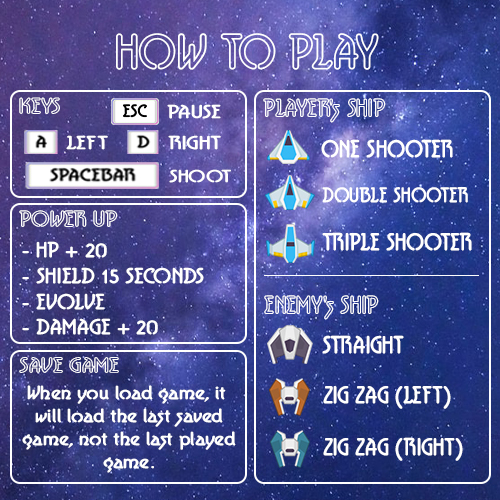
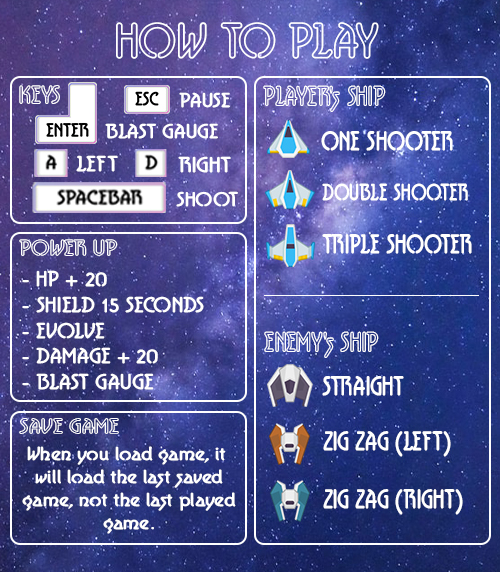
V42 - blast gauge sudah (help & kena musuh)

diff --git a/src/Proyek/formMenuInGame.java b/src/Proyek/formMenuInGame.java
@@ -55,21 +55,28 @@ public class formMenuInGame extends javax.swing.JFrame {
 
         jDialog1.setAlwaysOnTop(true);
         jDialog1.setCursor(new java.awt.Cursor(java.awt.Cursor.DEFAULT_CURSOR));
-        jDialog1.setMinimumSize(new java.awt.Dimension(505, 525));
+        jDialog1.setMinimumSize(new java.awt.Dimension(505, 600));
         jDialog1.setModal(true);
+        jDialog1.setPreferredSize(new java.awt.Dimension(505, 600));
         jDialog1.setResizable(false);
 
         jLabel2.setIcon(new javax.swing.ImageIcon(getClass().getResource("/Proyek/help.jpg"))); // NOI18N
+        jLabel2.setMaximumSize(new java.awt.Dimension(505, 600));
+        jLabel2.setMinimumSize(new java.awt.Dimension(505, 600));
+        jLabel2.setName(""); // NOI18N
+        jLabel2.setPreferredSize(new java.awt.Dimension(505, 600));
 
         javax.swing.GroupLayout jDialog1Layout = new javax.swing.GroupLayout(jDialog1.getContentPane());
         jDialog1.getContentPane().setLayout(jDialog1Layout);
         jDialog1Layout.setHorizontalGroup(
             jDialog1Layout.createParallelGroup(javax.swing.GroupLayout.Alignment.LEADING)
-            .addComponent(jLabel2, javax.swing.GroupLayout.DEFAULT_SIZE, 505, Short.MAX_VALUE)
+            .addComponent(jLabel2, javax.swing.GroupLayout.DEFAULT_SIZE, 509, Short.MAX_VALUE)
         );
         jDialog1Layout.setVerticalGroup(
             jDialog1Layout.createParallelGroup(javax.swing.GroupLayout.Alignment.LEADING)
-            .addComponent(jLabel2, javax.swing.GroupLayout.DEFAULT_SIZE, javax.swing.GroupLayout.DEFAULT_SIZE, Short.MAX_VALUE)
+            .addGroup(jDialog1Layout.createSequentialGroup()
+                .addComponent(jLabel2, javax.swing.GroupLayout.PREFERRED_SIZE, 572, javax.swing.GroupLayout.PREFERRED_SIZE)
+                .addGap(0, 0, Short.MAX_VALUE))
         );
 
         setDefaultCloseOperation(javax.swing.WindowConstants.EXIT_ON_CLOSE);

diff --git a/src/Proyek/LoginFrame.java b/src/Proyek/LoginFrame.java
@@ -62,21 +62,26 @@ public class LoginFrame extends javax.swing.JFrame {
 
         jDialog1.setAlwaysOnTop(true);
         jDialog1.setCursor(new java.awt.Cursor(java.awt.Cursor.DEFAULT_CURSOR));
-        jDialog1.setMinimumSize(new java.awt.Dimension(505, 525));
+        jDialog1.setMinimumSize(new java.awt.Dimension(505, 600));
         jDialog1.setModal(true);
         jDialog1.setResizable(false);
 
         jLabel1.setIcon(new javax.swing.ImageIcon(getClass().getResource("/Proyek/help.jpg"))); // NOI18N
+        jLabel1.setMaximumSize(new java.awt.Dimension(505, 600));
+        jLabel1.setMinimumSize(new java.awt.Dimension(505, 600));
+        jLabel1.setPreferredSize(new java.awt.Dimension(505, 600));
 
         javax.swing.GroupLayout jDialog1Layout = new javax.swing.GroupLayout(jDialog1.getContentPane());
         jDialog1.getContentPane().setLayout(jDialog1Layout);
         jDialog1Layout.setHorizontalGroup(
             jDialog1Layout.createParallelGroup(javax.swing.GroupLayout.Alignment.LEADING)
-            .addComponent(jLabel1, javax.swing.GroupLayout.DEFAULT_SIZE, 505, Short.MAX_VALUE)
+            .addComponent(jLabel1, javax.swing.GroupLayout.DEFAULT_SIZE, 508, Short.MAX_VALUE)
         );
         jDialog1Layout.setVerticalGroup(
             jDialog1Layout.createParallelGroup(javax.swing.GroupLayout.Alignment.LEADING)
-            .addComponent(jLabel1, javax.swing.GroupLayout.DEFAULT_SIZE, javax.swing.GroupLayout.DEFAULT_SIZE, Short.MAX_VALUE)
+            .addGroup(jDialog1Layout.createSequentialGroup()
+                .addComponent(jLabel1, javax.swing.GroupLayout.PREFERRED_SIZE, 572, javax.swing.GroupLayout.PREFERRED_SIZE)
+                .addGap(0, 0, Short.MAX_VALUE))
         );
 
         setDefaultCloseOperation(javax.swing.WindowConstants.EXIT_ON_CLOSE);

diff --git a/src/Proyek/game.java b/src/Proyek/game.java
@@ -5,6 +5,7 @@ import java.awt.Color;
 import java.awt.Font;
 import java.awt.Graphics;
 import java.awt.Graphics2D;
+import java.awt.Rectangle;
 import java.awt.image.BufferedImage;
 import java.io.File;
 import java.io.IOException;
@@ -32,8 +33,10 @@ public class game implements Serializable{
     protected int tmrStage;
     protected int musuh;
     protected int ctrSfxNextStage;
+    protected boolean blastActive;
     
     public game(String nama,int stage, int difficulty) {
+        this.blastActive = false;
         this.tmrStage = -1;
         this.musuh = 0;
         this.nama = nama;
@@ -243,6 +246,16 @@ public class game implements Serializable{
         hapus();
     }
     
+    public void blast(){
+        if(getPlayer().yBlast >= 0){
+            Rectangle b = new Rectangle(-15, getPlayer().yBlast, 545, 10);
+            for(pesawat p : this.listMusuh){
+                if(b.intersects(p.bounds())){
+                    p.hp = -1;
+                }
+            }
+        }
+    }
     
     public void hapus(){
         for (int i = 0; i < idxHapus.size(); i++) {
@@ -428,10 +441,13 @@ public class game implements Serializable{
                 }
                 this.listMusuh.remove(i);
                 this.score += 20;
-                getPlayer().ctrBlast += 10;
-                if(getPlayer().ctrBlast >= 100){
-                    getPlayer().ctrBlast = 100;
+                if(getPlayer().yBlast <= 0 || getPlayer().yBlast >= 550){
+                    getPlayer().ctrBlast += 10;
+                    if(getPlayer().ctrBlast >= 100){
+                        getPlayer().ctrBlast = 100;
+                    }  
                 }
+                
             }
         }
     }

diff --git a/src/Proyek/panelGame.java b/src/Proyek/panelGame.java
@@ -27,10 +27,8 @@ public class panelGame extends javax.swing.JPanel {
     float ctrWaktu;
     int ctrTembak;
     int ctrLoopSfxLose;
-    boolean blastActive;
     
     public panelGame() {
-        blastActive = false;
         initComponents();
         this.setFocusable(true);
         exitGame = false;
@@ -96,10 +94,10 @@ public class panelGame extends javax.swing.JPanel {
                         pl.move();
                     }
                 }
-                if(blastActive){
-                    gameSpace.getPlayer().ctrBlast-=5;
+                if(gameSpace.blastActive){
+                    gameSpace.getPlayer().ctrBlast-=3;
                     if(gameSpace.getPlayer().ctrBlast <= 0){
-                        blastActive = false;
+                        gameSpace.blastActive = false;
                     }
                 }
                 ctrWaktu+= 0.05;
@@ -108,6 +106,7 @@ public class panelGame extends javax.swing.JPanel {
                 }
                 gameSpace.tabrak();
                 gameSpace.nembak();
+                gameSpace.blast();
                 gameSpace.checkPesawatMati();
                 gameSpace.ketembak();
                 gameSpace.ledak();
@@ -233,7 +232,7 @@ public class panelGame extends javax.swing.JPanel {
             setPauseGame();
         }
         if(evt.getKeyCode() == KeyEvent.VK_ENTER && gameSpace.getPlayer().ctrBlast == 100){
-            blastActive = true;
+            gameSpace.blastActive = true;
             gameSpace.getPlayer().yBlast = 550;
         }
     }//GEN-LAST:event_formKeyPressed
